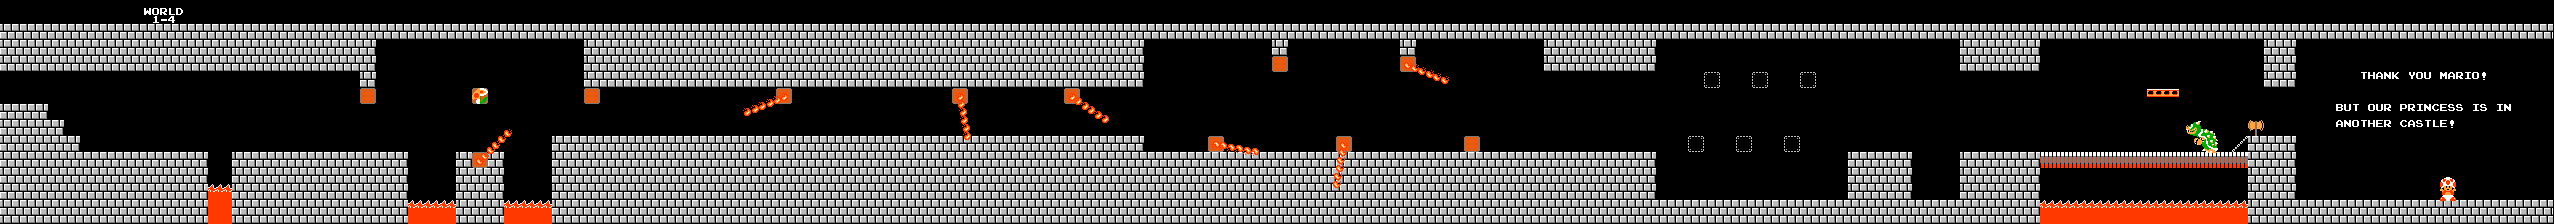
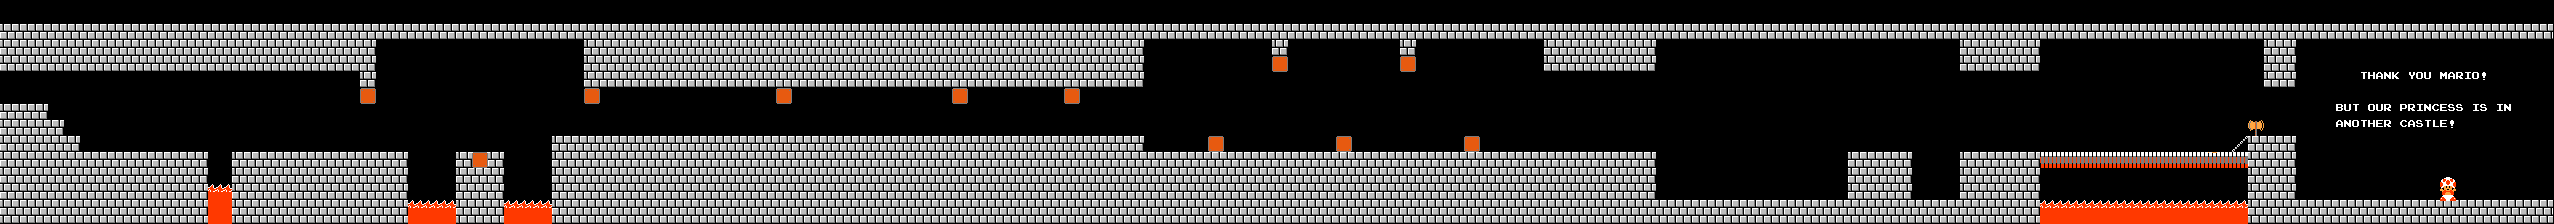
add firekoopa

diff --git a/source/components/enemy.py b/source/components/enemy.py
@@ -6,7 +6,7 @@ from .. import constants as c
 
 ENEMY_SPEED = 1
 
-def create_enemy(item):
+def create_enemy(item, level):
 	dir = c.LEFT if item['direction'] == 0 else c.RIGHT
 	color = item[c.COLOR]
 	if c.ENEMY_RANGE in item:
@@ -30,6 +30,9 @@ def create_enemy(item):
 	elif item['type'] == c.ENEMY_TYPE_PIRANHA:
 		sprite = Piranha(item['x'], item['y'], dir, color,
 			in_range, range_start, range_end)
+	elif item['type'] == c.ENEMY_TYPE_FIRE_KOOPA:
+		sprite = FireKoopa(item['x'], item['y'], dir, color,
+			in_range, range_start, range_end, level)
 	elif item['type'] == c.ENEMY_TYPE_FIRESTICK:
 		'''use a number of fireballs to stimulate a firestick'''
 		sprite = []
@@ -316,6 +319,71 @@ class FlyKoopa(Enemy):
 		self.in_range = False
 		self.isVertical = False
 
+class FireKoopa(Enemy):
+	def __init__(self, x, y, direction, color, in_range,
+				range_start, range_end, level, name=c.FIRE_KOOPA):
+		Enemy.__init__(self)
+		frame_rect_list = [(2, 210, 32, 32), (42, 210, 32, 32),
+							(82, 210, 32, 32), (122, 210, 32, 32)]
+		self.setup_enemy(x, y, direction, name, setup.GFX['smb_enemies_sheet'], 
+					frame_rect_list, in_range, range_start, range_end)
+		# right walk images
+		self.frames.append(pg.transform.flip(self.frames[0], True, False))
+		self.frames.append(pg.transform.flip(self.frames[1], True, False))
+		self.frames.append(pg.transform.flip(self.frames[2], True, False))
+		self.frames.append(pg.transform.flip(self.frames[3], True, False))
+		self.x_vel = 0
+		self.level = level
+		self.fire_timer = 0
+
+	def load_frames(self, sheet, frame_rect_list):
+		for frame_rect in frame_rect_list:
+			self.frames.append(tools.get_image(sheet, *frame_rect,
+							c.BLACK, c.BRICK_SIZE_MULTIPLIER))
+
+	def walking(self):
+		if (self.current_time - self.animate_timer) > 250:
+			if self.direction == c.RIGHT:
+				self.frame_index += 1
+				if self.frame_index > 7:
+					self.frame_index = 4
+			else:
+				self.frame_index += 1
+				if self.frame_index > 3:
+					self.frame_index = 0
+			self.animate_timer = self.current_time
+
+		if self.fire_timer == 0:
+			self.fire_timer = self.current_time
+			self.shootFire()
+		elif (self.current_time - self.fire_timer) > 3000:
+			self.fire_timer = self.current_time
+			self.shootFire()
+
+	def shootFire(self):
+		self.level.enemy_group.add(Fire(self.rect.x, self.rect.bottom-20, self.direction))
+		self.level.player_and_enemy_group.add(self.level.enemy_group)
+
+class Fire(Enemy):
+	def __init__(self, x, y, direction, name=c.FIRE):
+		Enemy.__init__(self)
+		frame_rect_list = [(101, 253, 23, 8), (131, 253, 23, 8)]
+		in_range, range_start, range_end = False, 0, 0
+		self.setup_enemy(x, y, direction, name, setup.GFX['smb_enemies_sheet'], 
+					frame_rect_list, in_range, range_start, range_end)
+		# right images
+		self.frames.append(pg.transform.flip(self.frames[0], True, False))
+		self.frames.append(pg.transform.flip(self.frames[1], True, False))
+		self.state = c.FLY
+		self.x_vel = 5 if self.direction == c.RIGHT else -5
+
+	def check_x_collisions(self, level):
+		sprite_group = pg.sprite.Group(level.ground_step_pipe_group,
+							level.brick_group, level.box_group)
+		sprite = pg.sprite.spritecollideany(self, sprite_group)
+		if sprite:
+			self.kill()
+
 class Piranha(Enemy):
 	def __init__(self, x, y, direction, color, in_range, 
 				range_start, range_end, name=c.PIRANHA):
@@ -395,7 +463,6 @@ class FireStick(pg.sprite.Sprite):
 		self.center_y = center_y
 		self.radius = radius
 		self.angle = 0
-		print('FireStick:', self.rect.x, self.rect.y)
 
 	def load_frames(self, sheet, frame_rect_list):
 		for frame_rect in frame_rect_list:
@@ -404,13 +471,13 @@ class FireStick(pg.sprite.Sprite):
 
 	def update(self, game_info, level):
 		self.current_time = game_info[c.CURRENT_TIME]
-		if (self.current_time - self.animate_timer) > 200:
+		if (self.current_time - self.animate_timer) > 100:
 			if self.frame_index < 3:
 				self.frame_index += 1
 			else:
 				self.frame_index = 0
 			self.animate_timer = self.current_time
-		#self.image = self.frames[self.frame_index]
+		self.image = self.frames[self.frame_index]
 
 		self.angle += 1
 		if self.angle == 360:

diff --git a/source/states/level.py b/source/states/level.py
@@ -150,7 +150,7 @@ class Level(tools.State):
 		for data in self.map_data[c.MAP_ENEMY]:
 			group = pg.sprite.Group()
 			for item in data[str(index)]:
-				group.add(enemy.create_enemy(item))
+				group.add(enemy.create_enemy(item, self))
 			self.enemy_group_list.append(group)
 			index += 1
 			
@@ -276,6 +276,8 @@ class Level(tools.State):
 				self.change_map(checkpoint.map_index, checkpoint.type)
 			elif checkpoint.type == c.CHECKPOINT_TYPE_MAP:
 				self.change_map(checkpoint.map_index, checkpoint.type)
+			elif checkpoint.type == c.CHECKPOINT_TYPE_BOSS:
+				self.player.state = c.WALKING_TO_CASTLE
 			checkpoint.kill()
 
 	def update_flag_score(self):
@@ -416,7 +418,10 @@ class Level(tools.State):
 				self.move_to_dying_group(self.enemy_group, enemy)
 				direction = c.RIGHT if self.player.facing_right else c.LEFT
 				enemy.start_death_jump(direction)
-			elif enemy.name == c.PIRANHA or enemy.name == c.FIRESTICK:
+			elif (enemy.name == c.PIRANHA or
+				enemy.name == c.FIRESTICK or
+				enemy.name == c.FIRE_KOOPA or
+				enemy.name == c.FIRE):
 				pass
 			elif self.player.y_vel > 0:
 				enemy.state = c.JUMPED_ON

diff --git a/source/constants.py b/source/constants.py
@@ -88,6 +88,7 @@ ENEMY_TYPE_KOOPA = 1
 ENEMY_TYPE_FLY_KOOPA = 2
 ENEMY_TYPE_PIRANHA = 3
 ENEMY_TYPE_FIRESTICK = 4
+ENEMY_TYPE_FIRE_KOOPA = 5
 ENEMY_RANGE = 'range'
 MAP_CHECKPOINT = 'checkpoint'
 ENEMY_GROUPID = 'enemy_groupid'
@@ -98,7 +99,8 @@ CHECKPOINT_TYPE_CASTLE = 2
 CHECKPOINT_TYPE_MUSHROOM = 3
 CHECKPOINT_TYPE_PIPE = 4
 CHECKPOINT_TYPE_PIPE_UP = 5
-CHECKPOINT_TYPE_MAP = 6	#go to another map
+CHECKPOINT_TYPE_MAP = 6 #go to another map
+CHECKPOINT_TYPE_BOSS = 7 #defeat the boss
 MAP_FLAGPOLE = 'flagpole'
 FLAGPOLE_TYPE_FLAG = 0
 FLAGPOLE_TYPE_POLE = 1
@@ -162,6 +164,8 @@ GRAVITY = 1.01
 GOOMBA = 'goomba'
 KOOPA = 'koopa'
 FLY_KOOPA = 'fly koopa'
+FIRE_KOOPA = 'fire koopa'
+FIRE = 'fire'
 PIRANHA = 'piranha'
 FIRESTICK = 'firestick'
 
